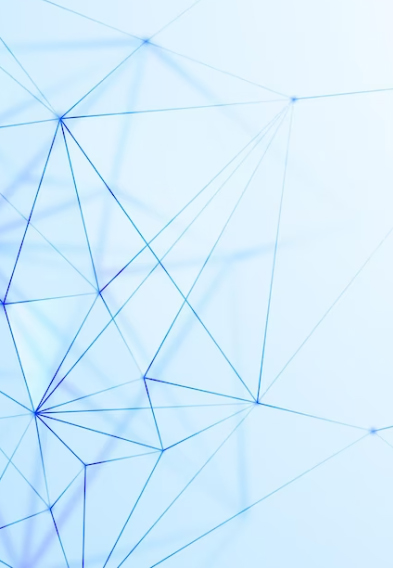
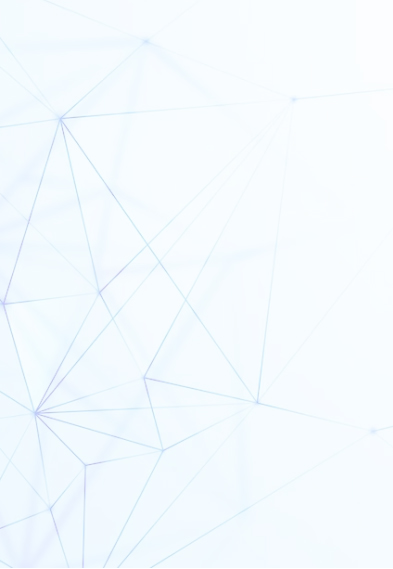
css baggrund

diff --git a/src/main/resources/static/css/lottetest.css b/src/main/resources/static/css/lottetest.css
@@ -84,7 +84,7 @@ body {
 }
 .brand-name:hover {
     /*background-color: black;*/
-    color: #d5d9f8;
+    color: #83edff;
 }
 .view {
     height:300px;
@@ -98,8 +98,9 @@ body {
     /*text-align: left;*/
     overflow: hidden;
     /*background-color: #cccccc;*/
-    background-image: url("../pictures/gray.jpg");
-            /*radial-gradient(circle at 0% 0%,#fffffe, #d5d9f8, #d0d6fa 51%, #c6ccfc, #dcd2f8,#cdbdfa,#ffffff,#000000 ) !*url("../pictures/white.jpg");!*radial-gradient(circle at 0% 0%, #d5d9f8, #d0d6fa 51%, #c6ccfc);*!*/
+    background-image: url("../pictures/white.jpg");
+
+    /*radial-gradient(circle at 0% 0%,#fffffe, #d5d9f8, #d0d6fa 51%, #c6ccfc, #dcd2f8,#cdbdfa,#ffffff,#000000 ) !*url("../pictures/white.jpg");!*radial-gradient(circle at 0% 0%, #d5d9f8, #d0d6fa 51%, #c6ccfc);*!*/
 }
 
 .text1 {
@@ -120,7 +121,7 @@ a {
 }
 
 a:hover{
-    color: #ffffff;
+    color: #83edff;
 }
 
 a:visited{

diff --git a/src/main/resources/templates/taskview.html b/src/main/resources/templates/taskview.html
@@ -5,8 +5,9 @@
     <title>Task view</title>
 <!--  <link rel="stylesheet" th:href="@{../css/grid.css}" href="../static/css/grid.css">-->
 <!--  <link rel="stylesheet" th:href="@{../css/view.css}" href="../static/css/view.css">-->
-<!--  <link rel="stylesheet" th:href="@{../css/modal.css}" href="../static/css/modal.css">-->
+
   <link rel="stylesheet" th:href="@{../css/lottetest.css}" href="../static/css/lottetest.css">
+  <link rel="stylesheet" th:href="@{../css/modal.css}" href="../static/css/modal.css">
 </head>
 <body >
 
@@ -103,7 +104,7 @@
 
   </form>
 </section>
-  </div>
+<div class="overlay hidden"></div>
 
 
 <script>
